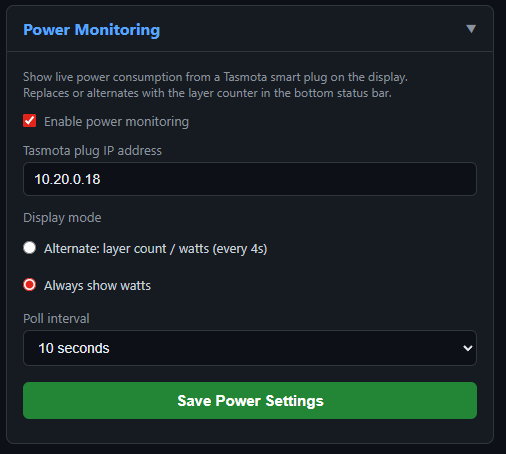
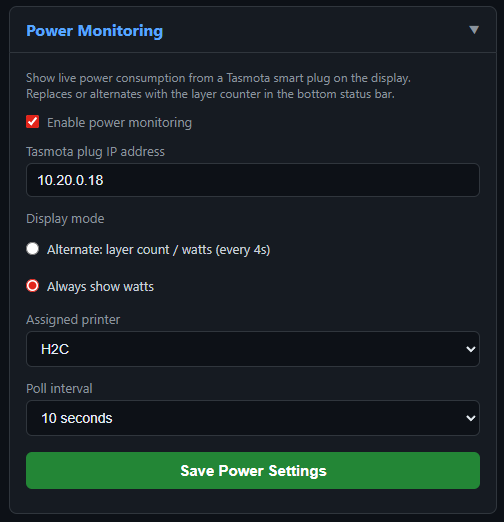
Add initial Tasmota power monitoring (live watts, per-print kWh, automation groundwork)

diff --git a/src/web_server.cpp b/src/web_server.cpp
@@ -561,6 +561,8 @@ static const char PAGE_HTML[] PROGMEM = R"rawliteral(
           <input type="radio" name="tsm_dm" value="1" %TSM_DM1%> Always show watts
         </label>
       </div>
+      <label for="tsm_slot" style="margin-top:12px">Assigned printer</label>
+      <select id="tsm_slot">%TSM_SLOT_OPTIONS%</select>
       <label for="tsm_pi" style="margin-top:12px">Poll interval</label>
       <select id="tsm_pi">
         <option value="10" %TSM_PI10%>10 seconds</option>
@@ -793,6 +795,7 @@ function savePower(){
   p.append('tsm_ip',document.getElementById('tsm_ip').value.trim());
   var dm=document.querySelector('input[name="tsm_dm"]:checked');
   if(dm) p.append('tsm_dm',dm.value);
+  p.append('tsm_slot',document.getElementById('tsm_slot').value);
   p.append('tsm_pi',document.getElementById('tsm_pi').value);
   fetch('/save/power',{method:'POST',headers:{'Content-Type':'application/x-www-form-urlencoded'},body:p.toString()})
     .then(function(r){return r.json();})
@@ -1196,6 +1199,26 @@ static void processTemplate(String& page) {
   page.replace("%TSM_IP%", tasmotaSettings.ip);
   page.replace("%TSM_DM0%", tasmotaSettings.displayMode == 0 ? "checked" : "");
   page.replace("%TSM_DM1%", tasmotaSettings.displayMode == 1 ? "checked" : "");
+  // Tasmota slot dropdown (dynamic, based on configured printers)
+  {
+    String slotOpts;
+    slotOpts += "<option value=\"255\"";
+    if (tasmotaSettings.assignedSlot == 255) slotOpts += " selected";
+    slotOpts += ">Any printer</option>";
+    for (uint8_t i = 0; i < MAX_ACTIVE_PRINTERS; i++) {
+      if (!isPrinterConfigured(i)) continue;
+      slotOpts += "<option value=\"";
+      slotOpts += String(i);
+      slotOpts += "\"";
+      if (tasmotaSettings.assignedSlot == i) slotOpts += " selected";
+      slotOpts += ">";
+      const char* nm = printers[i].config.name;
+      if (nm[0] != '\0') slotOpts += nm;
+      else { slotOpts += "Printer "; slotOpts += String(i + 1); }
+      slotOpts += "</option>";
+    }
+    page.replace("%TSM_SLOT_OPTIONS%", slotOpts);
+  }
   page.replace("%TSM_PI10%", tasmotaSettings.pollInterval == 10 ? "selected" : "");
   page.replace("%TSM_PI15%", tasmotaSettings.pollInterval == 15 ? "selected" : "");
   page.replace("%TSM_PI20%", tasmotaSettings.pollInterval == 20 ? "selected" : "");
@@ -1586,6 +1609,10 @@ static void handleSavePower() {
     strlcpy(tasmotaSettings.ip, server.arg("tsm_ip").c_str(), sizeof(tasmotaSettings.ip));
   if (server.hasArg("tsm_dm"))
     tasmotaSettings.displayMode = server.arg("tsm_dm").toInt() ? 1 : 0;
+  if (server.hasArg("tsm_slot")) {
+    int slot = server.arg("tsm_slot").toInt();
+    tasmotaSettings.assignedSlot = (slot >= 0 && slot < MAX_ACTIVE_PRINTERS) ? (uint8_t)slot : 255;
+  }
   if (server.hasArg("tsm_pi")) {
     uint8_t pi = server.arg("tsm_pi").toInt();
     if (pi >= 10 && pi <= 30) tasmotaSettings.pollInterval = pi;

diff --git a/src/display_ui.cpp b/src/display_ui.cpp
@@ -484,7 +484,7 @@ static void drawIdle() {
     idleAltShowPower = false;
     idleAltFlipMs    = 0;
   }
-  bool idleTasmotaOnline = tasmotaIsOnline();
+  bool idleTasmotaOnline = tasmotaIsActiveForSlot(rotState.displayIndex);
 
   int16_t botCY = scrH - 9;
   bool bottomChanged = wifiChanged ||
@@ -1023,7 +1023,7 @@ static void drawPrinting() {
     altShowPower = false;
     altFlipMs    = 0;
   }
-  bool tasmotaOnline = tasmotaIsOnline();
+  bool tasmotaOnline = tasmotaIsActiveForSlot(rotState.displayIndex);
 
   bool showingWifi = !(s.ams.present && s.ams.activeTray < AMS_MAX_TRAYS && s.ams.trays[s.ams.activeTray].present)
                   && !(s.ams.vtPresent && s.ams.activeTray == 254);
@@ -1203,11 +1203,12 @@ static void drawFinished() {
   }
 
   // === kWh used during print (between filename and bottom bar) ===
-  bool kwhChanged = tasmotaSettings.enabled && tasmotaKwhChanged();
+  bool tasmotaActiveHere = tasmotaIsActiveForSlot(rotState.displayIndex);
+  bool kwhChanged = tasmotaActiveHere && tasmotaKwhChanged();
   if (forceRedraw || kwhChanged) {
     int16_t kwhY = (LY_FIN_FILE_Y + eff_finBotY) / 2;
     tft.fillRect(0, kwhY - 9, scrW, 18, CLR_BG);
-    if (tasmotaSettings.enabled) {
+    if (tasmotaActiveHere) {
       float kwh = tasmotaGetPrintKwhUsed();
       if (kwh >= 0.0f) {
         drawIcon16(tft, cx - 32, kwhY - 8, icon_lightning, CLR_YELLOW);

diff --git a/include/tasmota.h b/include/tasmota.h
@@ -1,9 +1,11 @@
 #pragma once
+#include <stdint.h>
 
 void  tasmotaInit();
 void  tasmotaLoop(unsigned long now);
-float tasmotaGetWatts();          // current watts, -1 if unavailable
-bool  tasmotaIsOnline();          // true if data received within last 90s
-void  tasmotaMarkPrintStart();    // call when print begins; records Total kWh baseline
-float tasmotaGetPrintKwhUsed();   // kWh used since markPrintStart(), -1 if unavailable
-bool  tasmotaKwhChanged();        // true (once) when kWh value has updated
+float tasmotaGetWatts();                     // current watts, -1 if unavailable
+bool  tasmotaIsOnline();                     // true if data received within last 90s
+bool  tasmotaIsActiveForSlot(uint8_t slot);  // online AND assigned to given display slot
+void  tasmotaMarkPrintStart();               // call when print begins; records Total kWh baseline
+float tasmotaGetPrintKwhUsed();              // kWh used since markPrintStart(), -1 if unavailable
+bool  tasmotaKwhChanged();                   // true (once) when kWh value has updated

diff --git a/src/settings.cpp b/src/settings.cpp
@@ -17,7 +17,7 @@ char cloudEmail[64] = {0};
 ButtonType buttonType = BTN_DISABLED;
 uint8_t buttonPin = BUTTON_DEFAULT_PIN;
 BuzzerSettings buzzerSettings = { false, BUZZER_DEFAULT_PIN, 0, 0 };
-TasmotaSettings tasmotaSettings = { false, "", 0, 30 };
+TasmotaSettings tasmotaSettings = { false, "", 0, 30, 255 };
 
 static Preferences prefs;
 
@@ -297,6 +297,7 @@ void loadSettings() {
   tasmotaSettings.pollInterval = prefs.getUChar("tsm_pi", 30);
   if (tasmotaSettings.pollInterval < 10 || tasmotaSettings.pollInterval > 30)
     tasmotaSettings.pollInterval = 30;
+  tasmotaSettings.assignedSlot = prefs.getUChar("tsm_slot", 255);
 
   prefs.end();
 }
@@ -359,6 +360,7 @@ void saveSettings() {
   prefs.putString("tsm_ip", tasmotaSettings.ip);
   prefs.putUChar("tsm_dm", tasmotaSettings.displayMode);
   prefs.putUChar("tsm_pi", tasmotaSettings.pollInterval);
+  prefs.putUChar("tsm_slot", tasmotaSettings.assignedSlot);
 
   prefs.end();
 }

diff --git a/src/main.cpp b/src/main.cpp
@@ -172,7 +172,9 @@ void loop() {
       if (current != SCREEN_PRINTING) {
         setScreenState(SCREEN_PRINTING);
         finishScreenStart = 0;
-        tasmotaMarkPrintStart();
+        if (tasmotaSettings.assignedSlot == 255 ||
+            tasmotaSettings.assignedSlot == rotState.displayIndex)
+          tasmotaMarkPrintStart();
       }
       s.finishBuzzerPlayed = false;  // reset for next finish event
       s.doorAcknowledged = false;    // reset door ack for next finish

diff --git a/src/tasmota.cpp b/src/tasmota.cpp
@@ -101,6 +101,11 @@ bool tasmotaIsOnline() {
   return (millis() - g_lastUpdateMs) < TASMOTA_STALE_MS;
 }
 
+bool tasmotaIsActiveForSlot(uint8_t slot) {
+  if (!tasmotaIsOnline()) return false;
+  return (tasmotaSettings.assignedSlot == 255 || tasmotaSettings.assignedSlot == slot);
+}
+
 void tasmotaMarkPrintStart() {
   g_printStartKwh = g_totalKwh;  // -1 if Tasmota not yet polled
   Serial.printf("[Tasmota] Print start marked, Total=%.3fkWh\n", g_printStartKwh);

diff --git a/src/settings.h b/src/settings.h
@@ -73,6 +73,7 @@ struct TasmotaSettings {
   char    ip[16];
   uint8_t displayMode;   // 0=alternate layers/power every 4s, 1=always show power
   uint8_t pollInterval;  // poll interval in seconds (10-30)
+  uint8_t assignedSlot;  // printer slot this plug belongs to (0, 1, ... or 255=any)
 };
 
 extern char wifiSSID[33];
